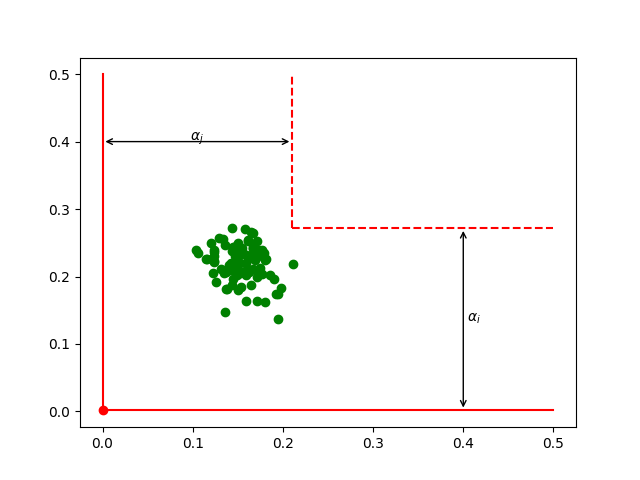
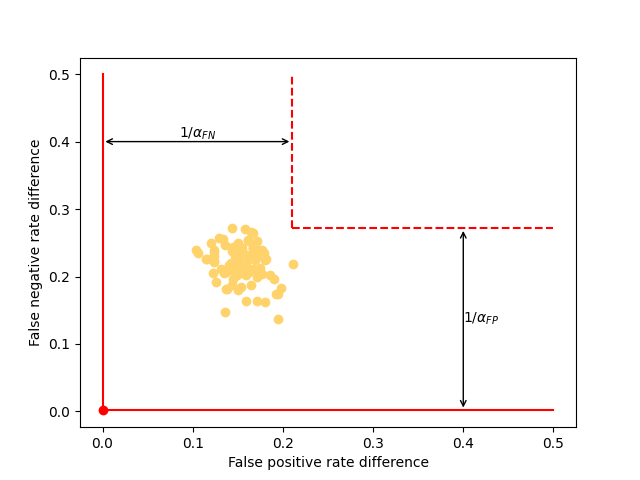
updated plots and images of plots

diff --git a/plot.py b/plot.py
@@ -5,6 +5,7 @@ import matplotlib.pyplot as plt
 import seaborn as sns
 
 feature = {0: "ZeroOne", 1: "Demographic parity difference", 2: "False negative rate difference", 3: "False positive rate difference", 4: "Equalized odds difference"}
+short = {"ZeroOne": "01", "Demographic parity difference": "DP", "False negative rate difference": "FN", "False positive rate difference": "FP", "Equalized odds difference": "EO"}
 lr_theta = 0.05
 lr_alpha = 0.05
 dataset = "Adult"
@@ -44,7 +45,9 @@ for i in range(num_of_features):
         # xLeft is (xlim - x)*0.8 + x
         yLeft = (ylim - y)*0.8 + y
         xBottom = (xlim - x)*0.8 + x
-        plt.plot(demo_metric_j, demo_metric_i, 'go', label = 'demo_list')
+        plt.xlabel(feature[j])
+        plt.ylabel(feature[i])
+        plt.scatter(demo_metric_j, demo_metric_i, marker='o', c=[(255/255,211/255,107/255)], label = 'demo_list')
         plt.plot(x, y, 'ro', label = 'super_human')
         plt.plot([x, x], [y, ylim], 'r')
         plt.plot([x, xlim], [y, y], 'r')
@@ -53,11 +56,12 @@ for i in range(num_of_features):
         plt.annotate('', xy=(newX, yLeft), xytext=(x, yLeft), xycoords='data', textcoords='data',
                      arrowprops={'arrowstyle': '<->'})
         # write the text to the top of the arrow above
-        plt.text((newX + x) * 0.5, yLeft + yLeft*0.01, r'$\alpha_j$', horizontalalignment='center', verticalalignment='center')
+        plt.text((newX + x) * 0.5, yLeft, fr"$1/\alpha_{{{short[feature[i]]}}}$", horizontalalignment='center', verticalalignment='bottom')
         plt.annotate('', xy=(xBottom, newY), xytext=(xBottom, y), xycoords='data', textcoords='data',
                      arrowprops={'arrowstyle': '<->'})
         # write the text to the right of the arrow above
-        plt.text(xBottom + xBottom*0.03, (newY + y) * 0.5, r'$\alpha_i$', horizontalalignment='center', verticalalignment='center')
+        plt.text(xBottom, (newY + y) * 0.5,
+                 fr"$1/\alpha_{{{short[feature[j]]}}}$", horizontalalignment='left', verticalalignment='center')
         
         plots_path_dir = os.path.join(sh_obj.plots_path, feature[j] + "_vs_"+ feature[i] + ".png")
         plt.savefig(plots_path_dir)
